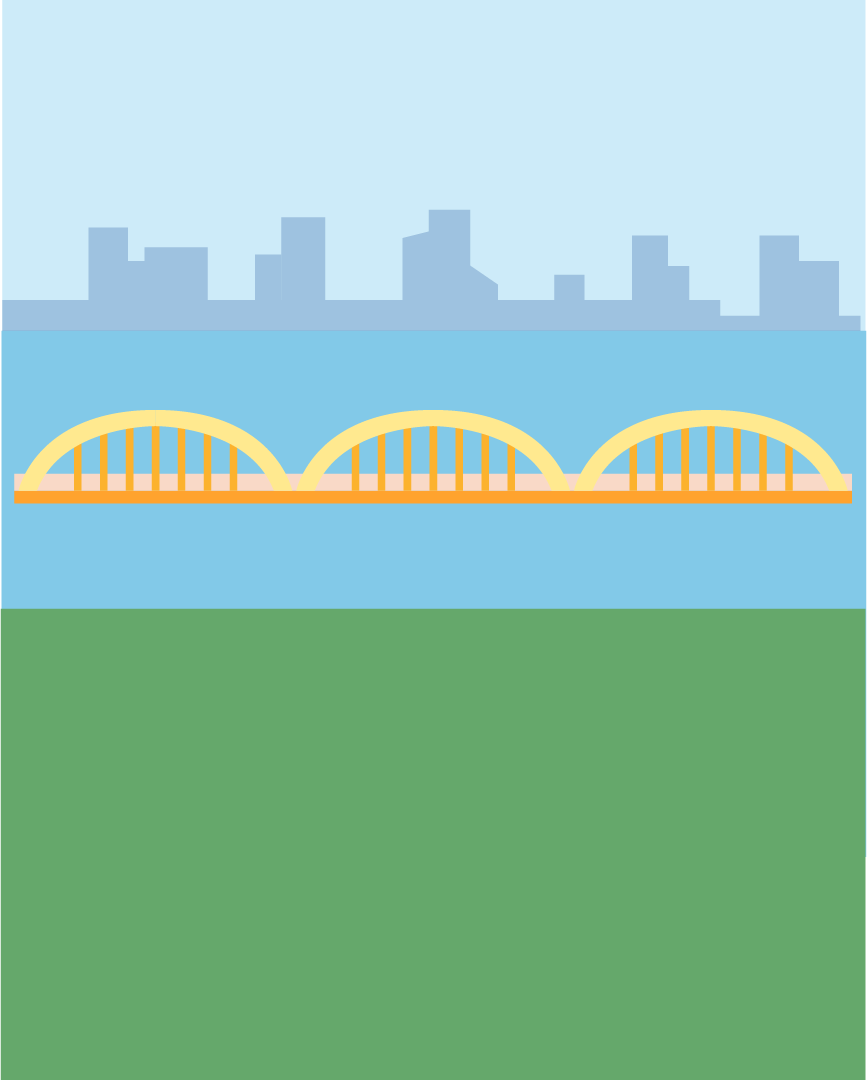
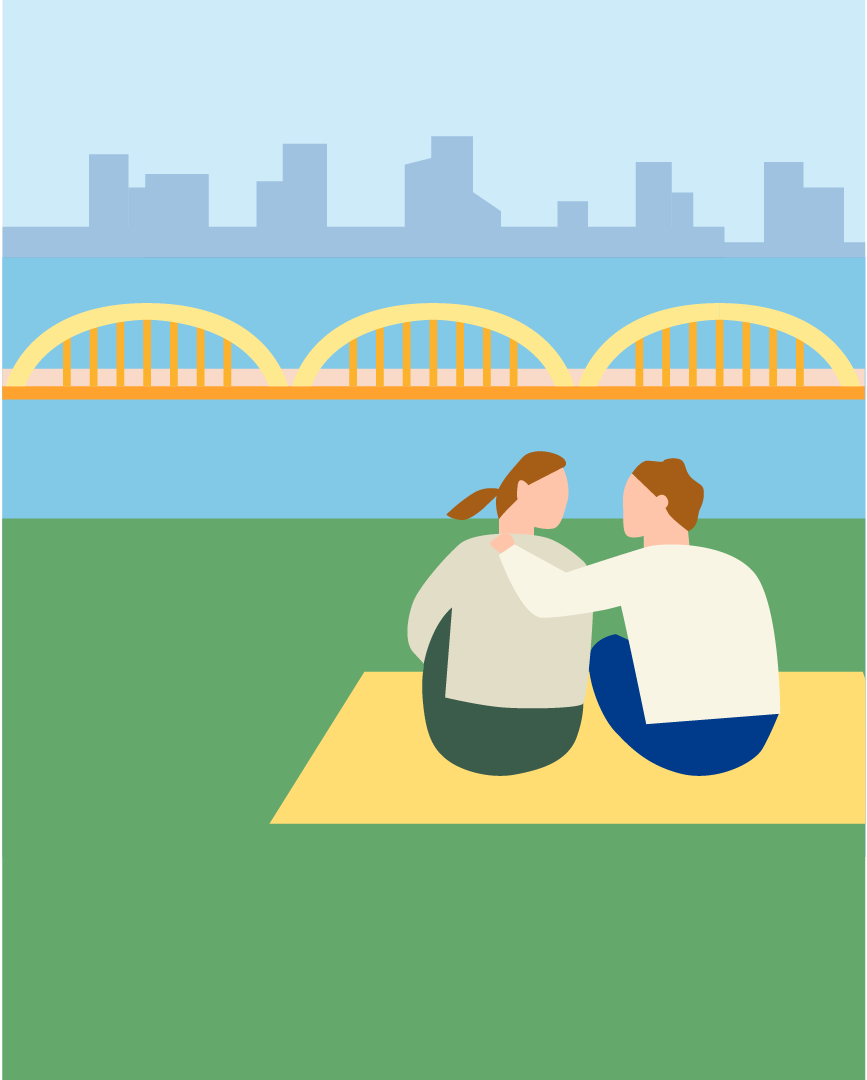
gif image add

diff --git a/css/style.css b/css/style.css
@@ -1,33 +1,23 @@
 /** Paste your SASS/SCSS/LESS code here */
 @import url('https://fonts.googleapis.com/css2?family=Abril+Fatface&family=Anton&family=Lato:wght@300;400;700;900&family=Merriweather:wght@400;700;900&family=Mukta:wght@300;400;500;600;700&family=Oswald:wght@300;400;500;600;700&family=Ubuntu:wght@400;500;700&display=swap');
+@import url('https://fonts.googleapis.com/css2?family=Alfa+Slab+One&family=Black+Han+Sans&family=Yeseva+One&display=swap');
   /*  'Oswald', serif   */
   /*  'Mukta', sans-serif   */
   /*  'Lato', sans-serif   */
   /*   'Ubuntu', serif   */
   /*  'Roboto', sans-serif   */
+  /*  'Black Han Sans', sans-serif;   */
+  /*  'Alfa Slab One', cursive;   */
+  /*  'Yeseva One', cursive   */
  
 html {
-  font-family: 'Lato', roboto, sans-serif;
+  font-family: roboto, sans-serif;
 }
 
 body{
   min-width: 1024px;
 }
-#menu {
-  position: fixed;
-  right: 5%;
-  top: 3%;
-  display: flex;
-}
-#menu li {
-  margin: 0 10px;
-}
-#menu li a {
-  color: #aaa;
-}
-#menu li.active a {
-  color: black;
-}
+
 #container {
   width: 100%;
 }
@@ -133,7 +123,6 @@ section div h1 {
 #intro .main-txt-01 .intro-title {
   font-size: 48px;
   color: black;
-  font-family: 'Lato', sans-serif;
   text-transform: uppercase;
   font-weight: bold;
   text-transform: none;
@@ -147,7 +136,6 @@ section div h1 {
   padding-bottom: 18px;
   font-size: 15px;
   color: #aaa;
-  font-family: 'Roboto', sans-serif;
   opacity: 0;
   transform: translateY(80%);
   transition: 0.4s 0.3s;
@@ -248,7 +236,6 @@ section div h1 {
 #information #infor-slider .unit .unit-box {
   font-size: 15px;
   color: #aaa;
-  font-family: 'Roboto', sans-serif;
   line-height: 1.6;
   color: black;
   padding: 12px;
@@ -288,7 +275,6 @@ section#information > div {
 #place #place-info h4 {
   font-size: 48px;
   color: black;
-  font-family: 'Lato', sans-serif;
   text-transform: uppercase;
   font-weight: bold;
   font-size: 36px;
@@ -297,7 +283,6 @@ section#information > div {
 #place #place-info .desc {
   font-size: 15px;
   color: #aaa;
-  font-family: 'Roboto', sans-serif;
 }
 #place #place-info.action {
   opacity: 1;
@@ -364,11 +349,12 @@ section#information > div {
 /************* activity page *****************/
 #activity .bg_illust {
   position: absolute;
-  left: 0;
-  top: 0;
-  width: 50%;
-  height: 100%;
-  background-image: url(../image/activity_day_bg_02.png);
+  right: 5%;
+  bottom: 0;
+  width: 44%;
+  height: calc(100% - 120px);
+  background-image: url(../image/activity_day_bg_01.gif);
+  background-position: center;
   background-size: cover;
   background-repeat: no-repeat;
   clip-path: circle(30px at 50% 50%);
@@ -381,52 +367,21 @@ section#information > div {
   left: 0;
   width: 100%;
 }
-#activity .bg_illust .person {
-  position: absolute;
-  width: 23%;
-  height: 40%;
-  right: 24%;
-  bottom: 25%;
-  transform-origin: 50% 50%;
-  animation: move 2s linear infinite;
-}
-#activity .bg_illust .person .main-obj {
-  top: 0;
-  position: absolute;
-  width: 100%;
-  height: auto;
-}
-@keyframes move {
-  0% {
-    transform: rotate(0deg);
-  }
-  40% {
-    transform: rotate(-10deg);
-  }
-  60% {
-    transform: rotate(5deg);
-  }
-  80% {
-    transform: rotate(-5deg);
-  }
-  100% {
-    transform: rotate(0deg);
-  }
-}
+
+
 #activity .bg_illust.action {
-  clip-path: circle(660px at 50% 50%);
+  clip-path: circle(280px at 50% 50%);
 }
 #activity .activ-text {
   position: absolute;
-  right: 13%;
-  top: 20%;
+  left: 13%;
+  top: 30%;
   width: 30%;
   padding: 10px 0;
 }
 #activity .activ-text .activ-title {
   font-size: 48px;
   color: black;
-  font-family: 'Lato', sans-serif;
   text-transform: uppercase;
   font-weight: bold;
   font-size: 38px;
@@ -434,13 +389,12 @@ section#information > div {
 #activity .activ-text .desc {
   font-size: 15px;
   color: #aaa;
-  font-family: 'Roboto', sans-serif;
   padding-top: 24px;
 }
 #activity .activ-menu {
   position: absolute;
   bottom: 24%;
-  right: 10%;
+  left: 13%;
   display: flex;
 }
 #activity .activ-menu .activ-list {
@@ -456,6 +410,41 @@ section#information > div {
 #activity .activ-menu .activ-list:not(:first-child) {
   margin-left: 10px;
 }
+
+
+#subject{
+  position: fixed;
+  top: 0; left: 50%;
+  transform: translateX(-50%);
+  padding: 0 5%;
+  width: 100%;
+  margin-top: 2%;
+  display: flex;
+  align-items: center;
+ 
+}
+#subject .page-title{
+  text-transform: uppercase;
+  font-size: 60px;
+  font-family: 'Oswald', serif  ;
+  color: #ececec;
+}
+
+#subject #menu {
+  display: flex;
+  margin-left: auto;
+}
+#subject #menu li {
+  margin: 0 10px;
+}
+#subject #menu li a {
+  color: #aaa;
+}
+#subject #menu li.active a {
+  color: black;
+}
+
+
 /************* food page *****************/
 #food .box-wrap {
   width: 100%;

diff --git a/js/main.js b/js/main.js
@@ -34,7 +34,9 @@ $('#container').fullpage({
     anchors:['mainPage','introPage','inforPage','placePage','activPage','endPage'],
     //nevigation:true,
     afterLoad : function(origin, destination,direction){
+        const $title = $('#subject .page-title')
         if(origin === 'mainPage'){
+            $($title).text('')
             $('.main-txt').addClass('action');
             $('.bg-move').addClass('action')
             $('.cloud').addClass('action')
@@ -45,14 +47,19 @@ $('#container').fullpage({
         }
 
         if(origin === 'introPage'){
+            $($title).text('01.introduction')
             $('.intro-title, .intro-desc, #intro-box').addClass('action')
 
         }else{
             $('.intro-title, .intro-desc, #intro-box').removeClass('action')
         }
+        if(origin === 'inforPage'){
+            $($title).text('02.information')
+        }
 
 
         if(origin === 'placePage'){
+            $($title).text('Where to Visit')
             $('#place-info').addClass('action');
             //$('#place-slider').delay(500).slick('slickPlay')
         }else{
@@ -61,6 +68,7 @@ $('#container').fullpage({
         }
 
         if(origin === 'activPage'){
+            $($title).text('What to Play')
             $('.bg_illust').addClass('action')
         }else{
             $('.bg_illust').removeClass('action')
@@ -108,51 +116,40 @@ const scrollBar = $('#scroll-bar');
 
 const activityData = [
     
-    {text : "The Han River is well equipped with public facilities including parks. You ca take a walk along the Han River and enjoy the scenery of Seoul."},
-    {text : "There are many stores that rent hanbok around the palace. Wearing hanbok will make good memories. Also, the entrance fee is free if you wear Hanbok and enter the palace."},
-    {text : "It will be a good experience to stay in a traditional Korean house, Hanok. You can stay in Hanok or experience Hanok Cafe."}
+    {   title : "01.At The Han River",
+        text : "The Han River is well equipped with public facilities including parks. You ca take a walk along the Han River and enjoy the scenery of Seoul."},
+    {
+        title : "02.Wearing Hanbok",
+        text : "There are many stores that rent Hanbok around the palace. Wearing hanbok will make good memories. Also, the entrance fee is free if you wear Hanbok and enter the palace."},
+    {
+        title : "03.Hanok Stay",
+        text : "It will be a good experience to stay in a traditional Korean house, Hanok. You can stay in Hanok or experience Hanok Cafe."}
 
 ]
 
 const activIllust = $('.bg_illust');
-const person = activIllust.find('.person').find('img');
 const textArea = $('.activ-text .desc')
+const textTitle = $('.activ-title')
+const illustArray = [
+    "../image/activity_day_bg_01.gif",
+    "../image/activity_day_bg_02.gif",
+    "../image/activity_day_bg_03.gif"
+]
+
+
 
 $('.activ-list').click(function(){
-        let idxNumber = $(this).index() //인덱스 번호
-        activIllust.removeClass('action');
-        //console.log(that)
+    let idxNumber = $(this).index() //인덱스 번호
+    console.log(idxNumber);
+    activIllust.removeClass('action');
+    
         
-        let listUrl =  $(this).find('img').attr('src');
-        let bgUrl = listUrl.replace('_day','_day_bg');
-        let objUrl = listUrl.replace('_day','_day_objs');
-        //console.log(fixedUrl);
-        activIllust.css({backgroundImage : `url(${bgUrl})`});
-        person.hide();
-        person.attr('src', objUrl);
-        setTimeout(function(){
-            person.show();
-        },1000)
-        if(idxNumber === 0){
-            textArea.text(activityData[0].text)
-            person.parent().css({
-                display:"block",
-                width:'30%', right:'60%', bottom:'10%'
-            })
-        }else if(idxNumber === 1){
-            textArea.text(activityData[1].text)
-            person.parent().css({
-                display:"block",
-                width:'23%', right:'24%', bottom:'25%'
-            })
-        }else if(idxNumber === 2){
-            textArea.text(activityData[2].text)
-            person.parent().css({
-                display : "none"
-            })
-        }
-        activIllust.addClass('action');
-        //person.remove('.person')
+    activIllust.css({backgroundImage : `url(${illustArray[idxNumber]})`});
+    textTitle.text(activityData[idxNumber].title);
+    textArea.text(activityData[idxNumber].text);
+       
+    activIllust.addClass('action');
+       
 })
 
                

diff --git a/index.html b/index.html
@@ -80,7 +80,7 @@
                                     Seoul is among the world leaders in Internet connectivity,  which has the world's  highest global average internet speeds.
                                 </div>
                                 <div class="unit-img">
-                                    <img src="image/infor_unit02.png" alt="">
+                                    <img src="image/infor_unit02.gif" alt="">
                                 </div>
                             </div>
                             <div class="unit">
@@ -193,13 +193,10 @@
 <!----------activity page-------------->
             <section id="activity" class="section">
                 <div class="bg_illust selected">
-                    <div class="person">
-                        <img src="image/activity_day_objs_02.png" class="main-obj" alt="">
-                    </div>
                 </div>
                 <div class="activ-text">
-                    <h2 class="activ-title">activity</h2>
-                    <div class="desc">There are many stores that rent hanbok around the palace. Wearing hanbok will make good memories. Also, the entrance fee is free if you wear Hanbok and enter the palace.</div>
+                    <h2 class="activ-title">01.At The Han River</h2>
+                    <div class="desc">The Han River is well equipped with public facilities including parks. You ca take a walk along the Han River and enjoy the scenery of Seoul.</div>
                 </div>
                 <div class="activ-menu">
                     <div class="activ-list">
@@ -242,15 +239,19 @@
                 <h1>Thank you</h1>
             </section>    
         </div>
-        <ul id="menu">
-            <li data-menuanchor="mainPage"><a href="#mainhome">main</a></li>
-            <li data-menuanchor="introPage"><a href="#intro">introduction</a></li>
-            <li data-menuanchor="inforPage"><a href="#information">information</a></li>
-            <li data-menuanchor="placePage"><a href="#place">place</a></li>
-            <li data-menuanchor="activPage"><a href="#activity">activity</a></li>
-            <!-- <li data-menuanchor="foodPage"><a href="#food">food</a></li> -->
-            <li data-menuanchor="endPage"><a href="#end">thank you</a></li>
-        </ul>
+        <header id="subject">
+            <h2 class="page-title">title</h2>
+            <ul id="menu">
+                <li data-menuanchor="mainPage"><a href="#mainhome">home</a></li>
+                <li data-menuanchor="introPage"><a href="#intro">introduction</a></li>
+                <li data-menuanchor="inforPage"><a href="#information">information</a></li>
+                <li data-menuanchor="placePage"><a href="#place">place</a></li>
+                <li data-menuanchor="activPage"><a href="#activity">activity</a></li>
+                <!-- <li data-menuanchor="foodPage"><a href="#food">food</a></li> -->
+                <li data-menuanchor="endPage"><a href="#end">end</a></li>
+            </ul>
+        </header>
+        
 
         <script src="js/jquery_3.5.1.js"></script>
         <script src="js/jquery.fullPage.js"></script>
